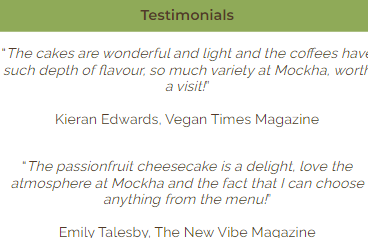
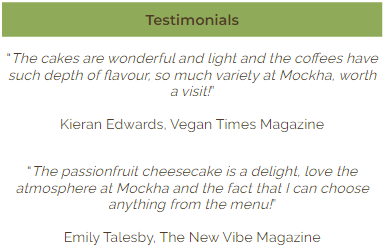
Add menu page section in README and replace testimonials image

diff --git a/README.md b/README.md
@@ -50,6 +50,9 @@ afternoon craving and it consists of four colours, namely Brown (#523a28) Peach 
 * The heading-4 texts are set against a green background and the letters of each word are capitalized to emphasis the start of a new section.
 * The heading-5 texts are set against a more transparent peach background and the letters of each word are also capitalized to depict a sub-heading and highlight key information.     
 
+### Images 
+* Besides the home page, which has two images, all other pages have a content-related image at the start of the page to tempt the user into reading on and each of those images have a heading to explain the purpose of the page.
+
 ![heading styles](assets/readme_img/heading-styles.png)
 
     * Margins 
@@ -57,7 +60,7 @@ afternoon craving and it consists of four colours, namely Brown (#523a28) Peach 
 
 ## Features that are page specific
 
-### Landing page 
+### Home page 
 * Slogan 
     * The slogan, "Vegan Take On Coffee and Cake", is short yet catchy in order to help users remember the bakery. 
 * Hero image 
@@ -73,5 +76,21 @@ afternoon craving and it consists of four colours, namely Brown (#523a28) Peach 
 
 * Testimonials
     * There are two testimonials given at the bottom of the home page to further convince users about visiting or making a reservation with Mockha.
+
+![testimonials](assets/readme_img/testimonials.png)
+
+### About page 
+* This page is primarily separated into three sections (not including header or footer):
+    * Section 1 - Page heading and image 
+        * The purpose of this has been explained in an earlier section (see images section)
+    * Section 2 - Welcome 
+        * Provides background information about the owners of the bakery and their ethos so users can develop an insight about the bakery.
+    * Section 1 - Contact us 
+        * Provides an address and map of the location of the bakery (map used in iframe taken from [google maps](https://www.google.co.uk/maps) so users can locate the bakery easily
+    * Section 2 - Opening times 
+        * Provides a tabulated form of the bakery's opening times on a daily basis, in order to provide clarity to the user.
+
+
+
 
 
